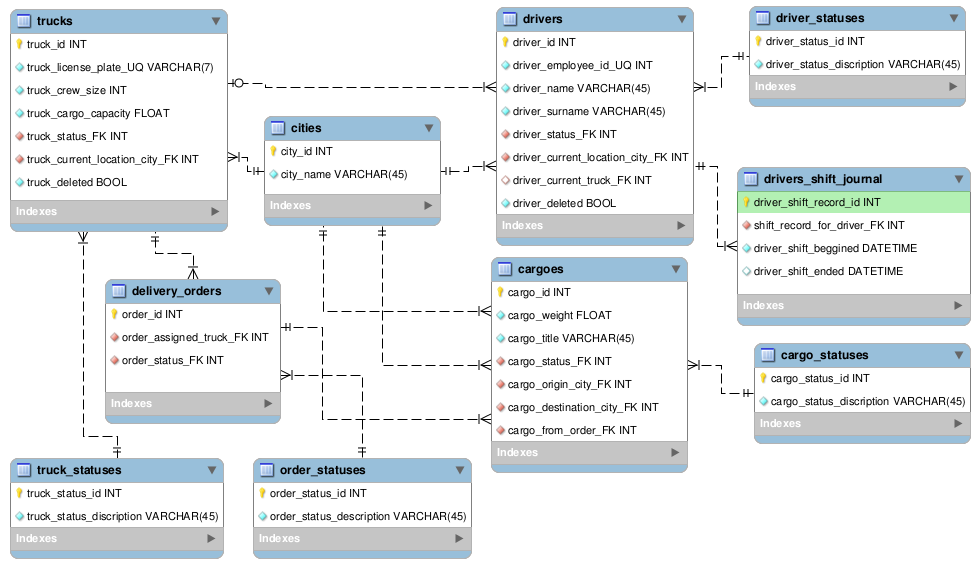
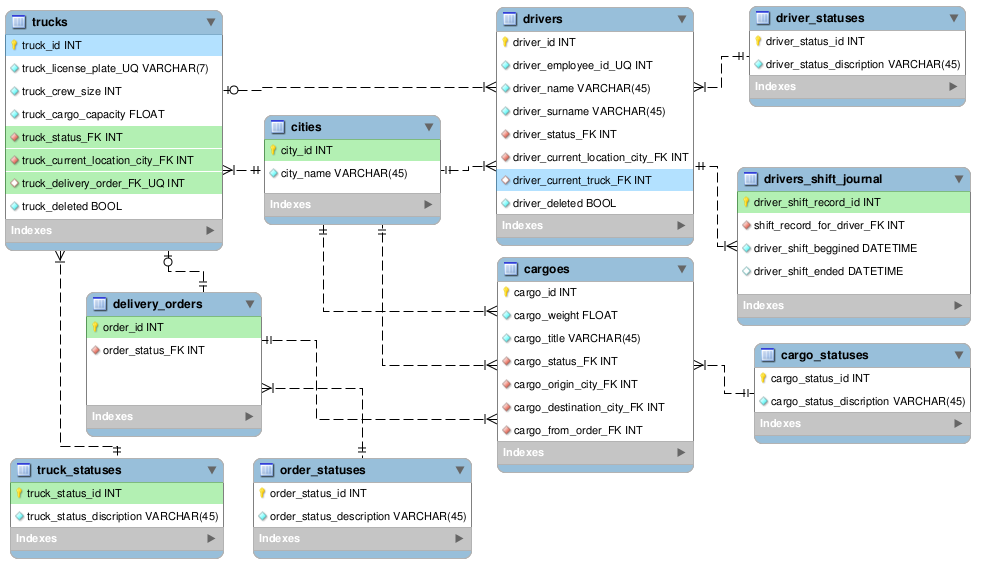
Changes in Truck and Order db schemas and entities.

diff --git a/src/main/java/com/tsystems/javaschool/logiweb/model/Truck.java b/src/main/java/com/tsystems/javaschool/logiweb/model/Truck.java
@@ -10,6 +10,7 @@ import javax.persistence.Id;
 import javax.persistence.JoinColumn;
 import javax.persistence.ManyToOne;
 import javax.persistence.OneToMany;
+import javax.persistence.OneToOne;
 import javax.persistence.Table;
 import javax.persistence.UniqueConstraint;
 
@@ -46,11 +47,12 @@ public class Truck {
     @JoinColumn(name = "truck_current_location_city_FK")
     private City currentCity;
 
+    @OneToOne
+    @JoinColumn(name = "truck_delivery_order_FK_UQ")
+    private DeliveryOrder assignedDeliveryOrder;
+    
     @Column(name = "truck_deleted")
     private boolean deletedRecord;
-
-    @OneToMany(fetch = FetchType.LAZY, mappedBy = "assignedTruck")
-    private Set<DeliveryOrder> deliveryOrders;
 
     @OneToMany(fetch = FetchType.LAZY, mappedBy = "currentTruck")
     private Set<Driver> drivers;
@@ -98,6 +100,14 @@ public class Truck {
 	this.status = status;
     }
 
+    public DeliveryOrder getAssignedDeliveryOrder() {
+        return assignedDeliveryOrder;
+    }
+
+    public void setAssignedDeliveryOrder(DeliveryOrder assignedDeliveryOrder) {
+        this.assignedDeliveryOrder = assignedDeliveryOrder;
+    }
+
     public City getCurrentCity() {
 	return currentCity;
     }
@@ -112,14 +122,6 @@ public class Truck {
 
     public void setDeletedRecord(boolean deleted) {
 	this.deletedRecord = deleted;
-    }
-
-    public Set<DeliveryOrder> getDeliveryOrders() {
-	return deliveryOrders;
-    }
-
-    public void setDeliveryOrders(Set<DeliveryOrder> deliveryOrders) {
-	this.deliveryOrders = deliveryOrders;
     }
 
     public Set<Driver> getDrivers() {

diff --git a/src/main/java/com/tsystems/javaschool/logiweb/model/DeliveryOrder.java b/src/main/java/com/tsystems/javaschool/logiweb/model/DeliveryOrder.java
@@ -7,6 +7,7 @@ import javax.persistence.GeneratedValue;
 import javax.persistence.Id;
 import javax.persistence.JoinColumn;
 import javax.persistence.ManyToOne;
+import javax.persistence.OneToOne;
 import javax.persistence.Table;
 
 /**
@@ -23,10 +24,9 @@ public class DeliveryOrder {
     @Column(name = "order_id", unique = true, nullable = false)
     private int id;
     
-    @ManyToOne(fetch = FetchType.EAGER)
-    @JoinColumn(name = "order_assigned_truck_FK")
+    @OneToOne(mappedBy = "assignedDeliveryOrder")
     private Truck assignedTruck;
-    
+
     @ManyToOne(fetch = FetchType.EAGER)
     @JoinColumn(name = "order_status_FK")
     private OrderStatus status;
@@ -47,6 +47,7 @@ public class DeliveryOrder {
     }
 
     public void setAssignedTruck(Truck assignedTruck) {
+	assignedTruck.setAssignedDeliveryOrder(this);
         this.assignedTruck = assignedTruck;
     }
 

diff --git a/src/main/java/com/tsystems/javaschool/logiweb/model/DriverShiftJournal.java b/src/main/java/com/tsystems/javaschool/logiweb/model/DriverShiftJournal.java
@@ -16,6 +16,7 @@ import javax.persistence.TemporalType;
 /**
  * The persistent class for the Driver Shifts (working hours).
  * 
+ * @author Andrey Baliushin
  */
 @Entity
 @Table(name = "drivers_shift_journal")
